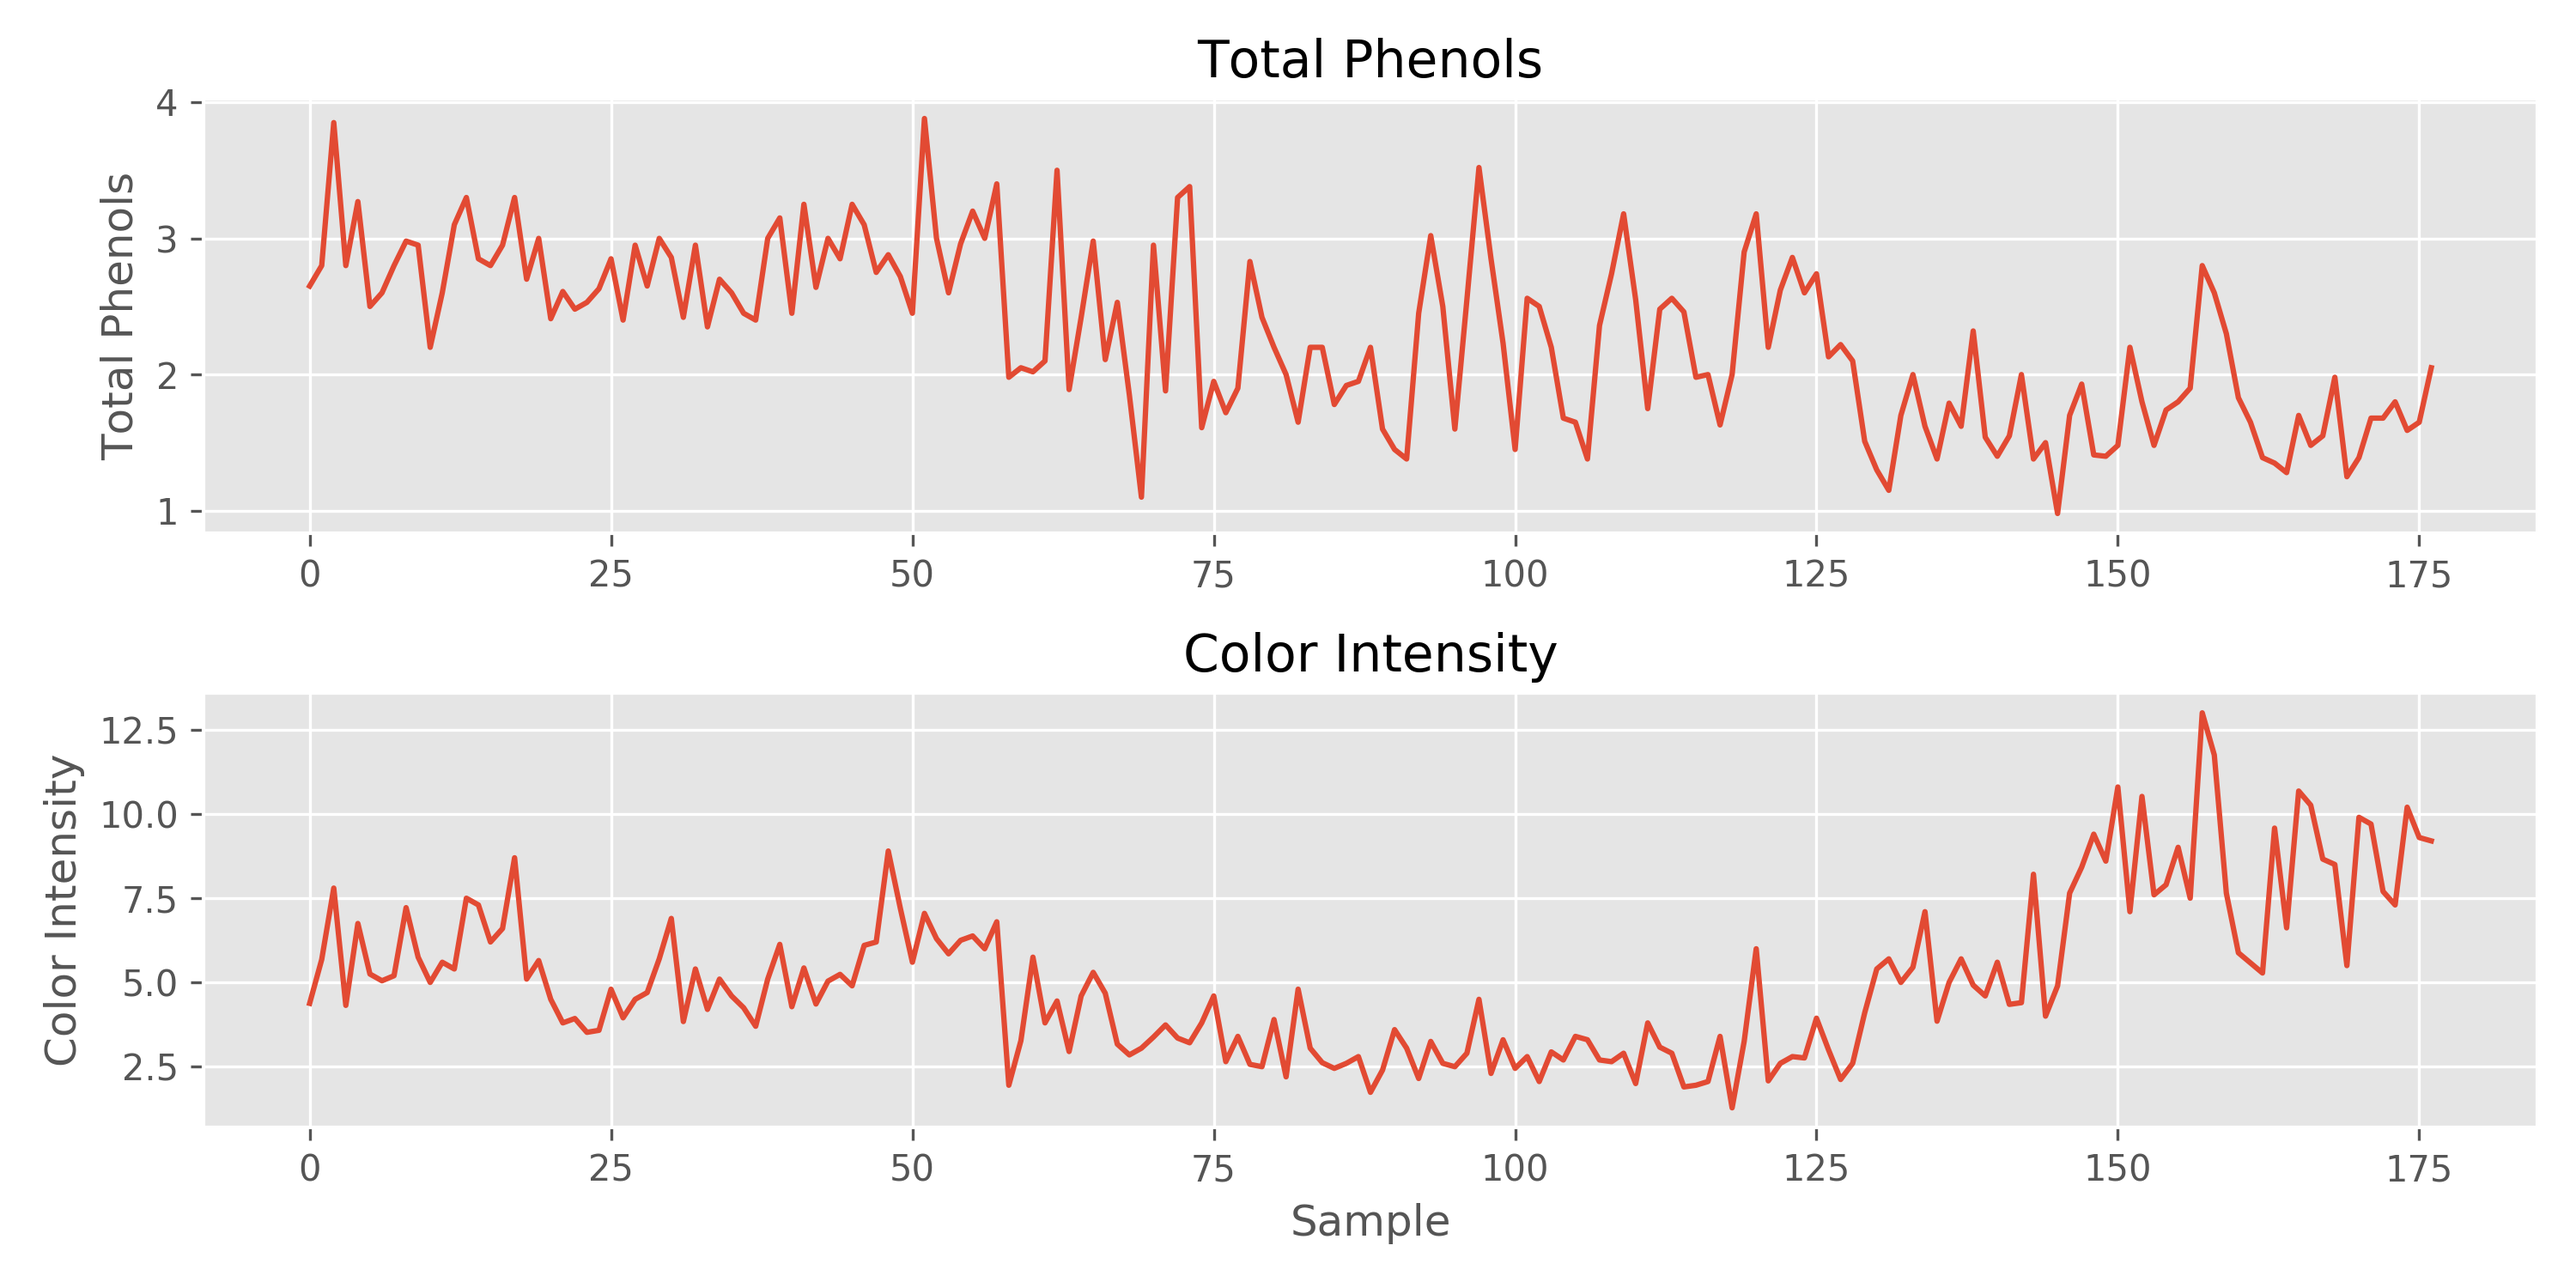
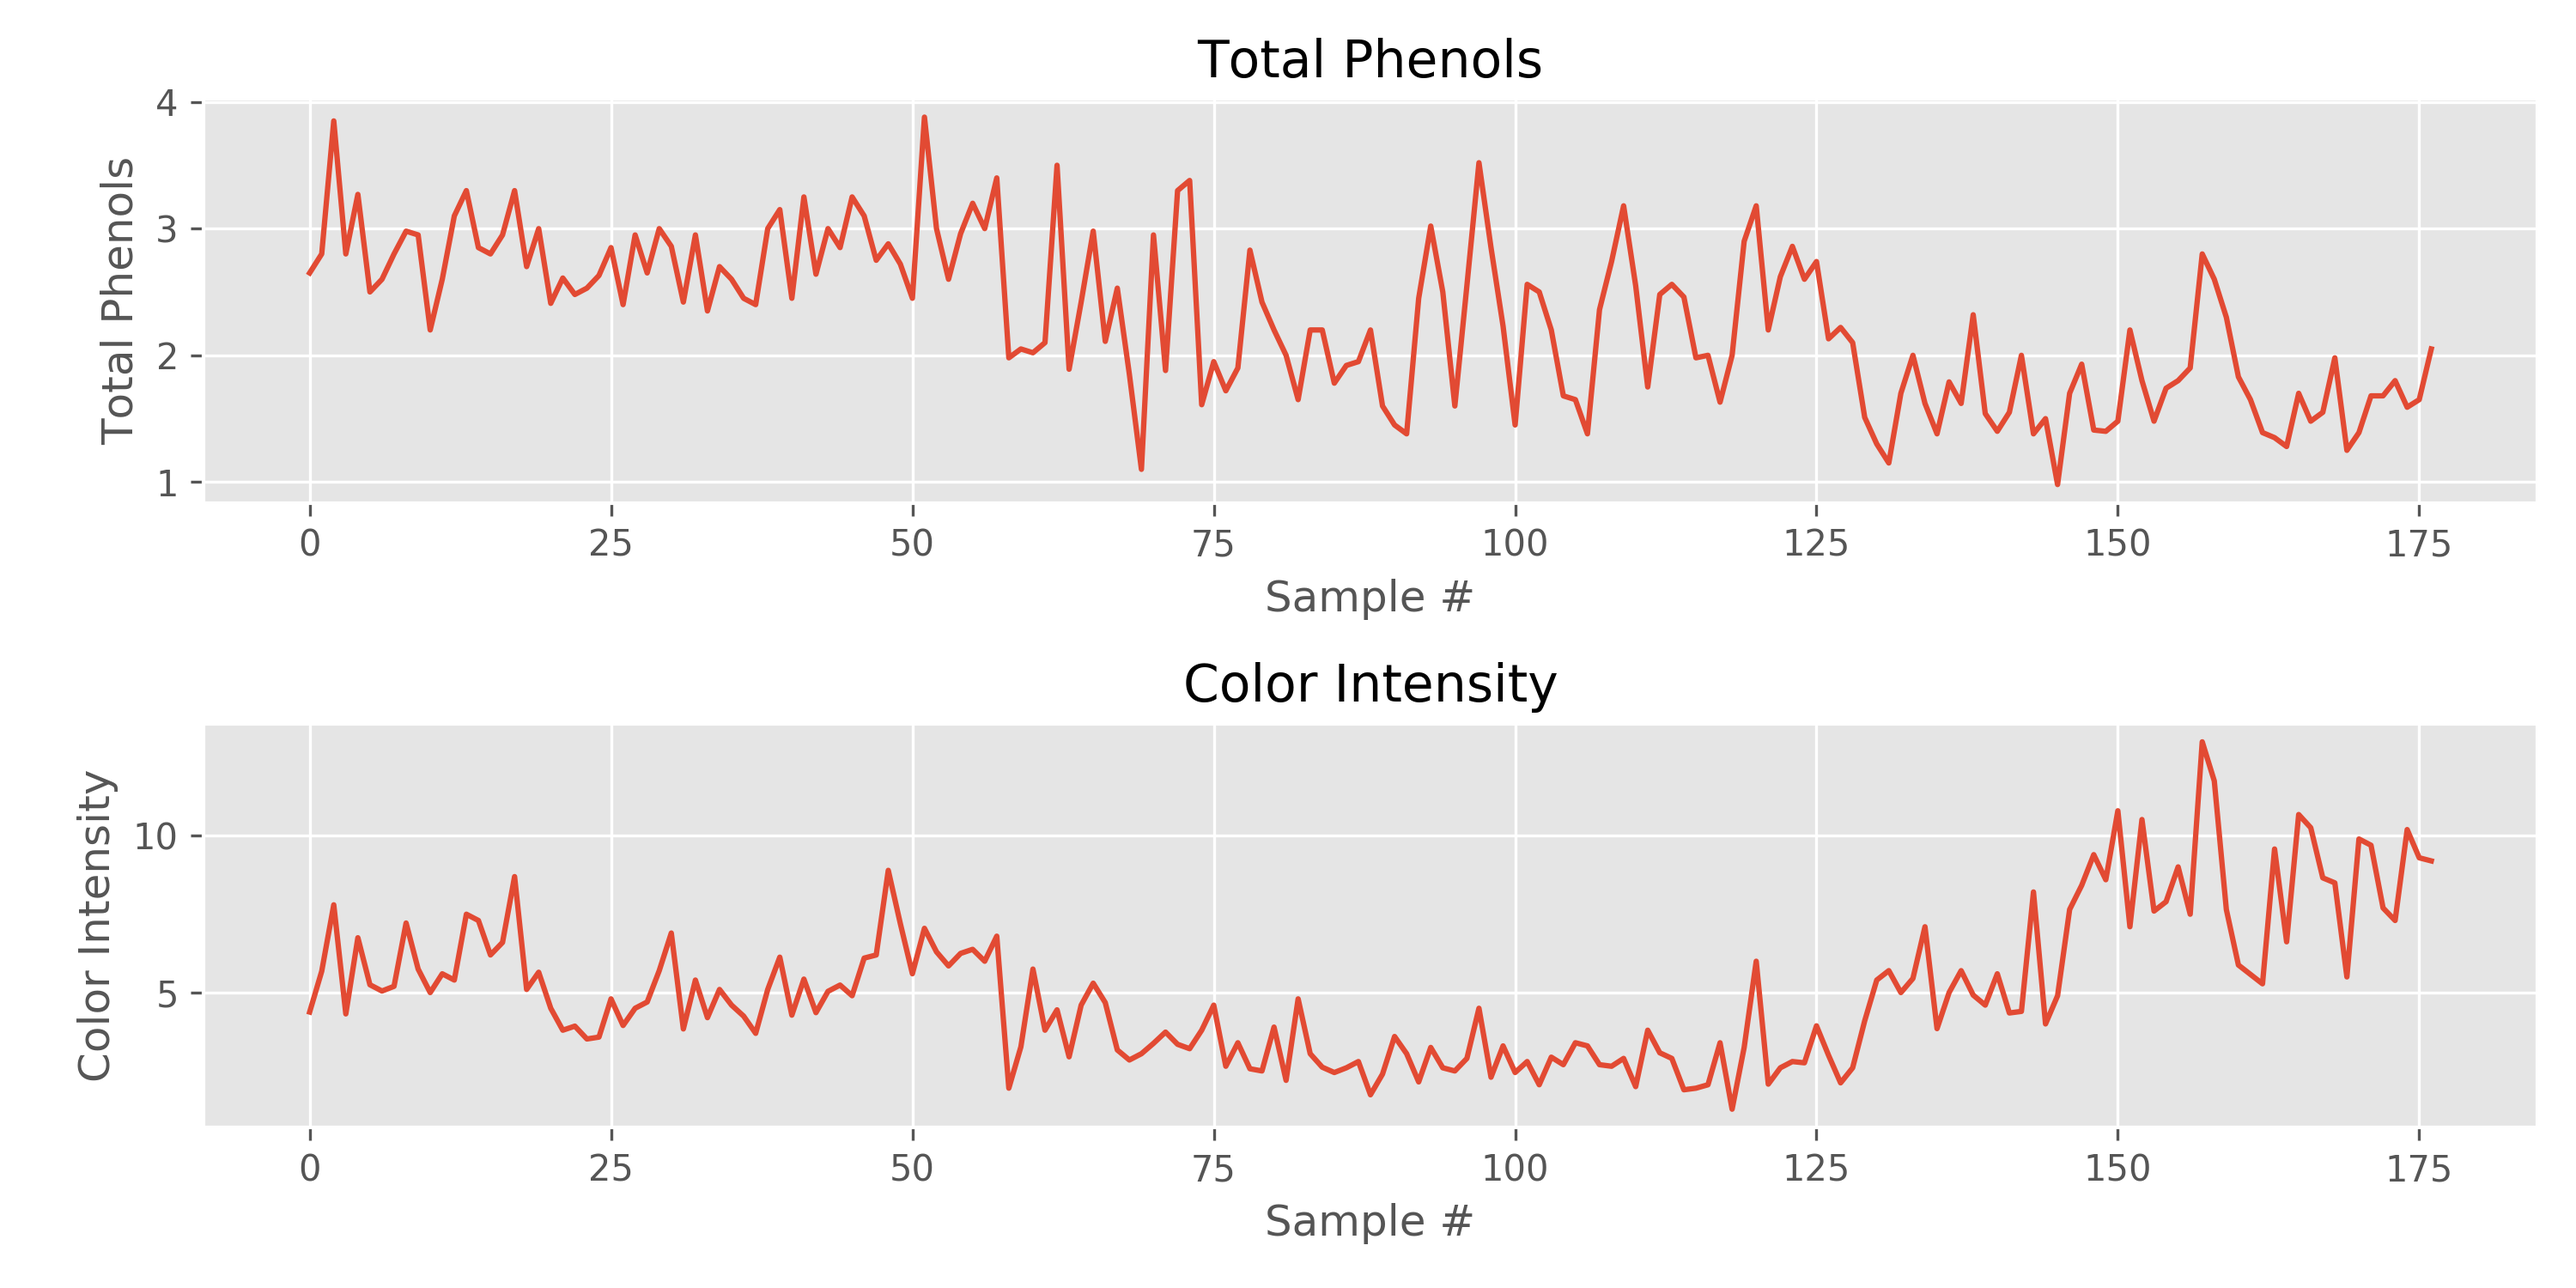
Fix axes

diff --git a/project_viz.py b/project_viz.py
@@ -54,11 +54,11 @@ fig, axes = plt.subplots(2, 1, figsize=(10, 5))
 axes[0].plot(df['total_phenols'])
 axes[1].plot(df['color_intensity'])
 
-axes[1].set_xlabel(f'Sample')
+axes[0].set_xlabel(f'Sample #')
 axes[0].set_ylabel(f'Total Phenols')
 axes[0].set_title(f'Total Phenols')
 
-axes[1].set_xlabel(f'Sample')
+axes[1].set_xlabel(f'Sample #')
 axes[1].set_ylabel(f'Color Intensity')
 axes[1].set_title(f'Color Intensity')
 
